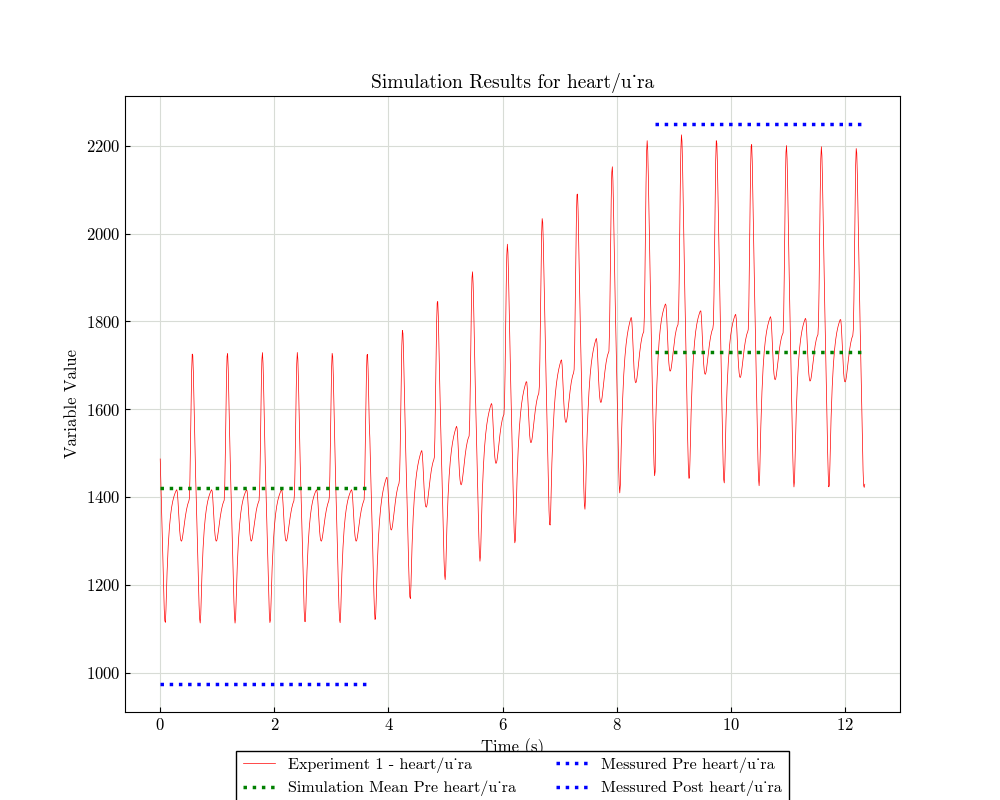
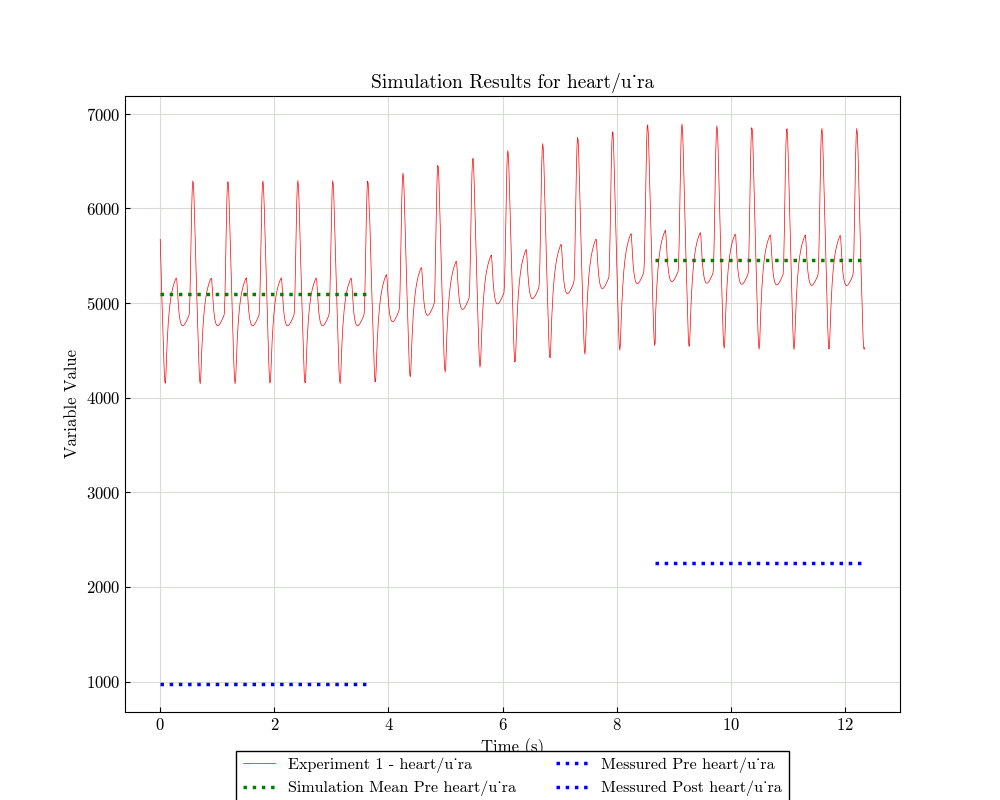
debugging the no updating problem. Is it not copying over the parameters that change? where should they go? where do they go?

diff --git a/gitdir/src/utilities/prediction.py b/gitdir/src/utilities/prediction.py
@@ -72,6 +72,17 @@ except:
     #print(traceback.format_exc())
     print('exception')
     comm.Abort()
+    
+source_file = os.path.join(resources_post_dir, '3compartment_parameters.csv')
+destination_file = model_dir
+
+# Check if the source file exists
+if os.path.exists(source_file):
+    # Copy the file from source to destination
+    shutil.copy(source_file, destination_file)
+    print(f"File copied from {source_file} to {destination_file}")
+else:
+    print(f"Source file not found: {source_file}")
 
 print('Plotting')
 model_path = os.path.join(model_dir, '3compartment.cellml')
@@ -86,7 +97,7 @@ protocol_info = json_obj
 print(protocol_info)
 #protocol_info = json_obj
 
-t_list, res_list = run_protocols(model_path, parameters_to_plot, protocol_info)
+t_list, res_list = run_protocols(model_path, parameters_to_plot, protocol_info, inp_data_dict)
 
 # Load ground truth data
 ground_truth = pd.read_csv('ground_truth.csv')
